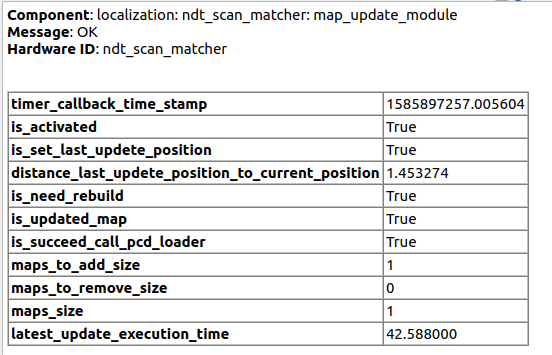
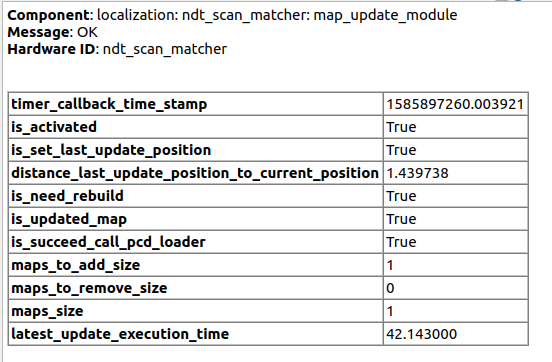
fix typo

Changed region(s): [[0.0, 0.2479, 0.9547, 0.9915], [0.0, 0.031, 0.8315, 0.1859]]

diff --git a/localization/ndt_scan_matcher/src/map_update_module.cpp b/localization/ndt_scan_matcher/src/map_update_module.cpp
@@ -53,8 +53,8 @@ void MapUpdateModule::initialize_diagnostics_key_value()
 {
   diagnostics_map_update_->addKeyValue("timer_callback_time_stamp", 0.0);
   diagnostics_map_update_->addKeyValue("is_activated", false);
-  diagnostics_map_update_->addKeyValue("is_set_last_updete_position", false);
-  diagnostics_map_update_->addKeyValue("distance_last_updete_position_to_current_position", 0.0);
+  diagnostics_map_update_->addKeyValue("is_set_last_update_position", false);
+  diagnostics_map_update_->addKeyValue("distance_last_update_position_to_current_position", 0.0);
   diagnostics_map_update_->addKeyValue("is_need_rebuild", false);
   diagnostics_map_update_->addKeyValue("is_updated_map", false);
   diagnostics_map_update_->addKeyValue("is_succeed_call_pcd_loader", false);
@@ -71,11 +71,11 @@ void MapUpdateModule::callback_timer(
   diagnostics_map_update_->addKeyValue("is_activated", is_activated);
 
   if (is_activated) {
-    const bool is_set_last_updete_position = (position != std::nullopt);
+    const bool is_set_last_update_position = (position != std::nullopt);
     diagnostics_map_update_->addKeyValue(
-      "is_set_last_updete_position", is_set_last_updete_position);
+      "is_set_last_update_position", is_set_last_update_position);
 
-    if (is_set_last_updete_position) {
+    if (is_set_last_update_position) {
       if (should_update_map(position.value())) {
         RCLCPP_INFO(logger_, "Start updating NDT map (timer_callback)");
         update_map(position.value());
@@ -112,7 +112,7 @@ bool MapUpdateModule::should_update_map(const geometry_msgs::msg::Point & positi
   const double distance = std::hypot(dx, dy);
 
   diagnostics_map_update_->addKeyValue(
-    "distance_last_updete_position_to_current_position", distance);
+    "distance_last_update_position_to_current_position", distance);
 
   if (distance + param_.lidar_radius > param_.map_radius) {
     std::stringstream message;

diff --git a/localization/ndt_scan_matcher/src/ndt_scan_matcher_core.cpp b/localization/ndt_scan_matcher/src/ndt_scan_matcher_core.cpp
@@ -272,9 +272,9 @@ void NDTScanMatcher::callback_sensor_points(
     }
 
     static size_t skipping_publish_num = 0;
-    const size_t error_skkping_publish_num = 5;
+    const size_t error_skipping_publish_num = 5;
     skipping_publish_num = is_published_topic ? 0 : (skipping_publish_num + 1);
-    validate_skipping_publish_num(skipping_publish_num, error_skkping_publish_num);
+    validate_skipping_publish_num(skipping_publish_num, error_skipping_publish_num);
   }
 
   diagnostics_scan_points_->publish();
